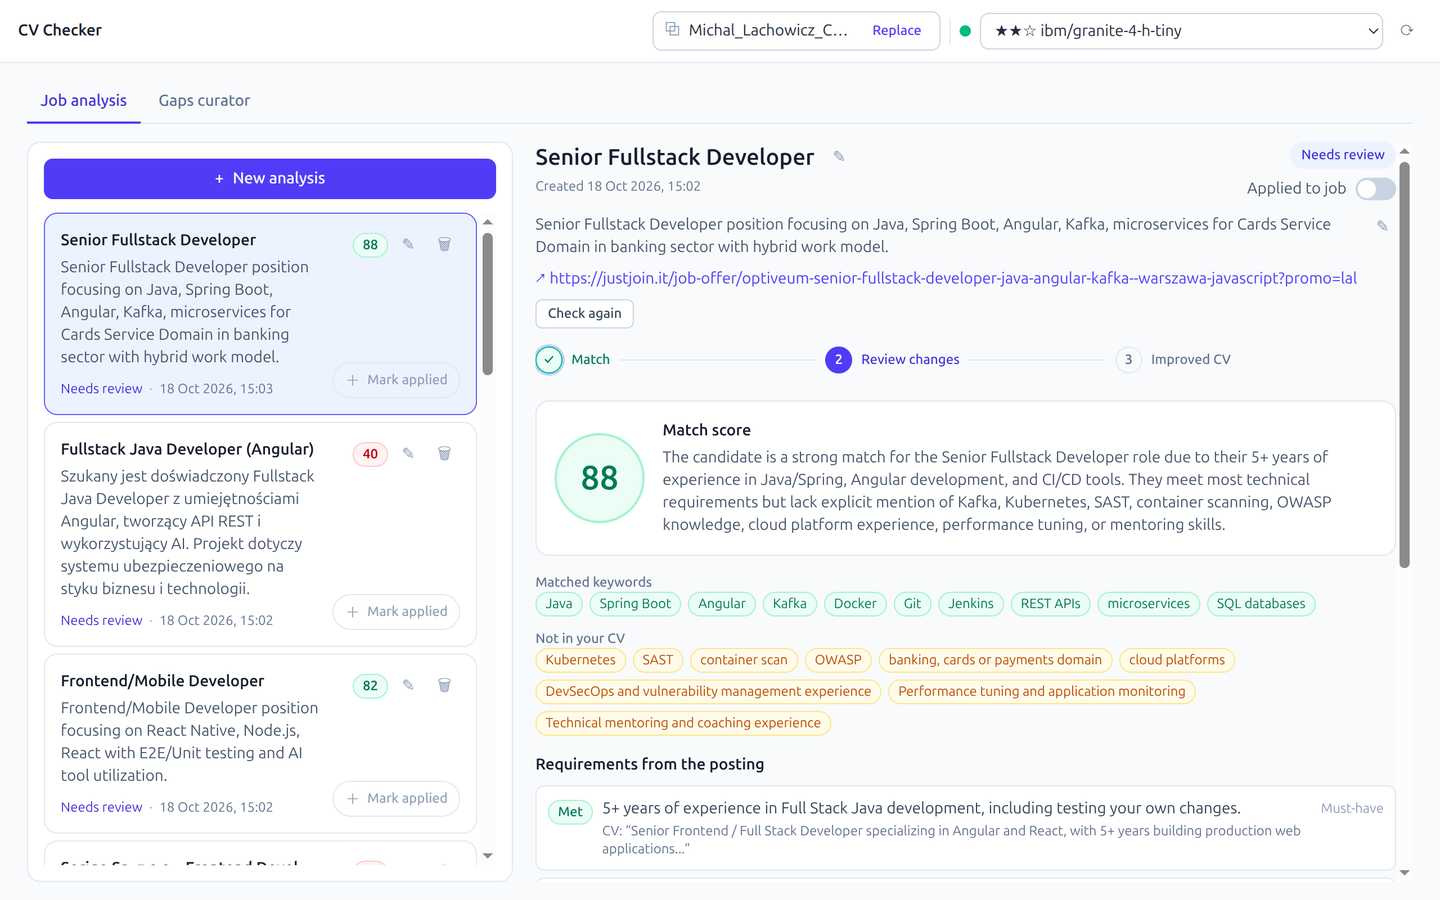
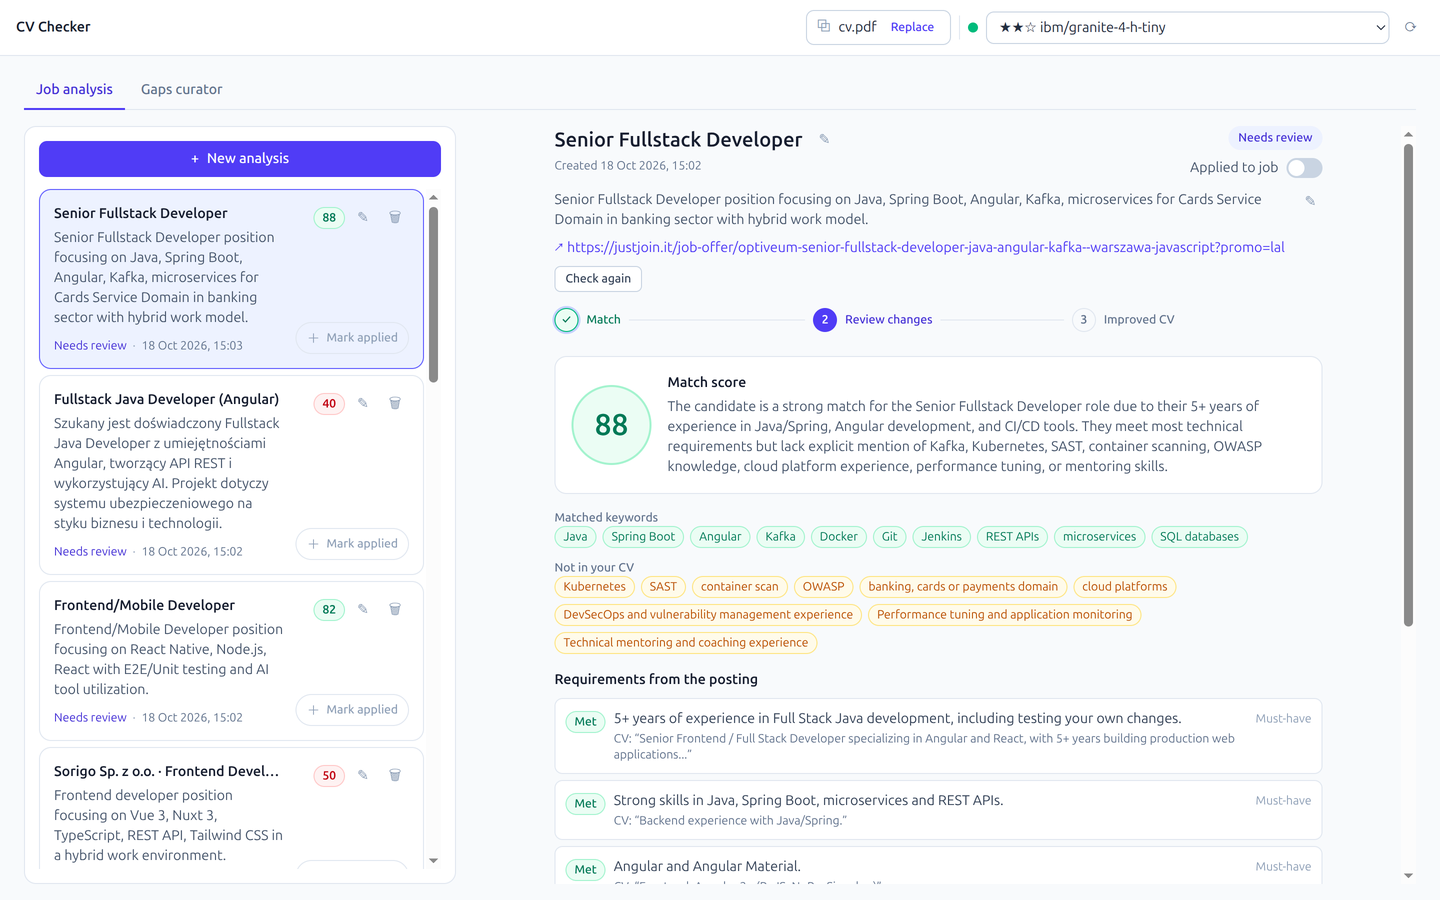
docs: add GitHub README with screenshots

diff --git a/README.md b/README.md
@@ -23,7 +23,7 @@ Wszystko działa na Twoim komputerze — żadne dane nie opuszczają maszyny.
   CV we wszystkich otwartych kartach.
 - **Trwałość** — analizy i braki są zapisywane w lokalnej bazie SQLite.
 
-![Review zmian](docs/screenshots/review.png)
+![Review propozycji zmian](docs/screenshots/review.png)
 ![Skill gaps](docs/screenshots/gaps.png)
 
 ## Jak to działa
